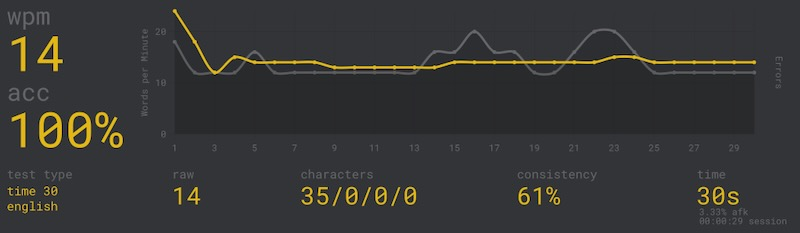
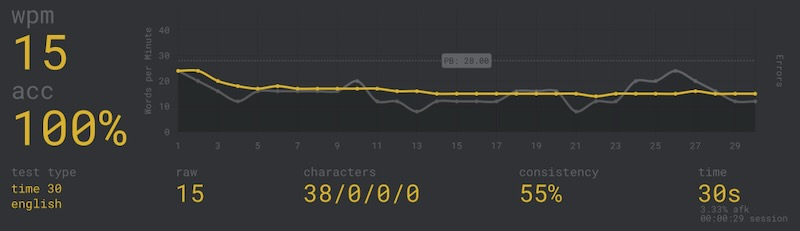
speed improvement

diff --git a/README.md b/README.md
@@ -129,7 +129,7 @@ Typing Speed
 ![Screenshot](pics/monkeytype.jpeg)
 
 * monkeytype
-* left handed :: 14 wpm
+* left handed :: 15 wpm
 * primarily limited by my own mental conversion of letters to chords
 * a realistic goal is 25+ wpm per hand
 
